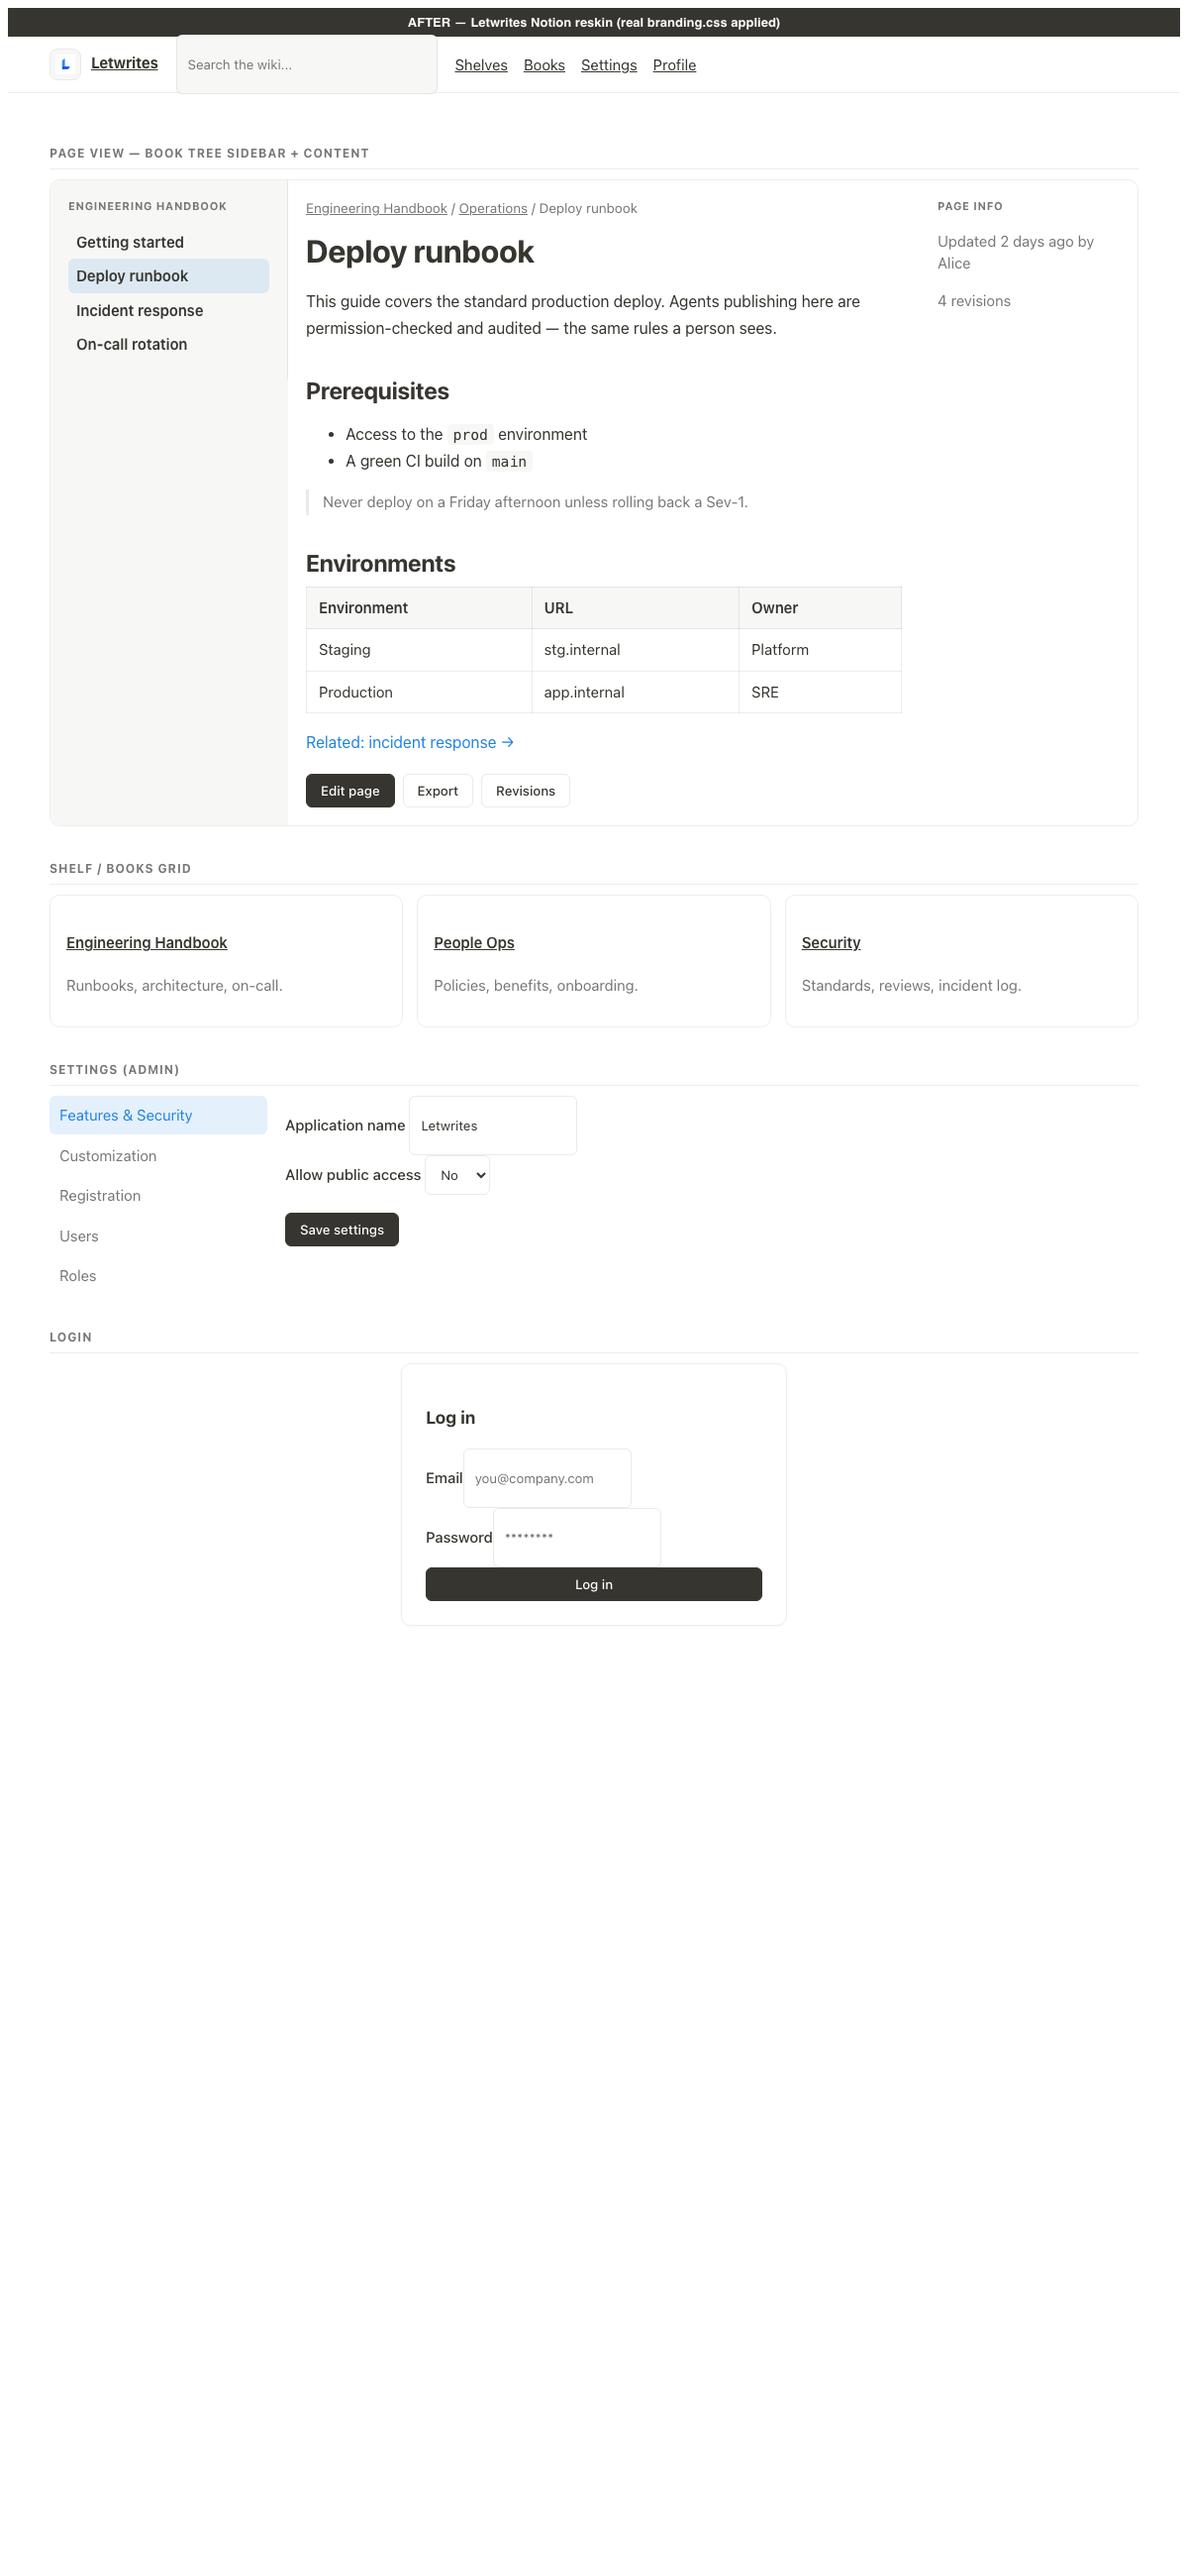
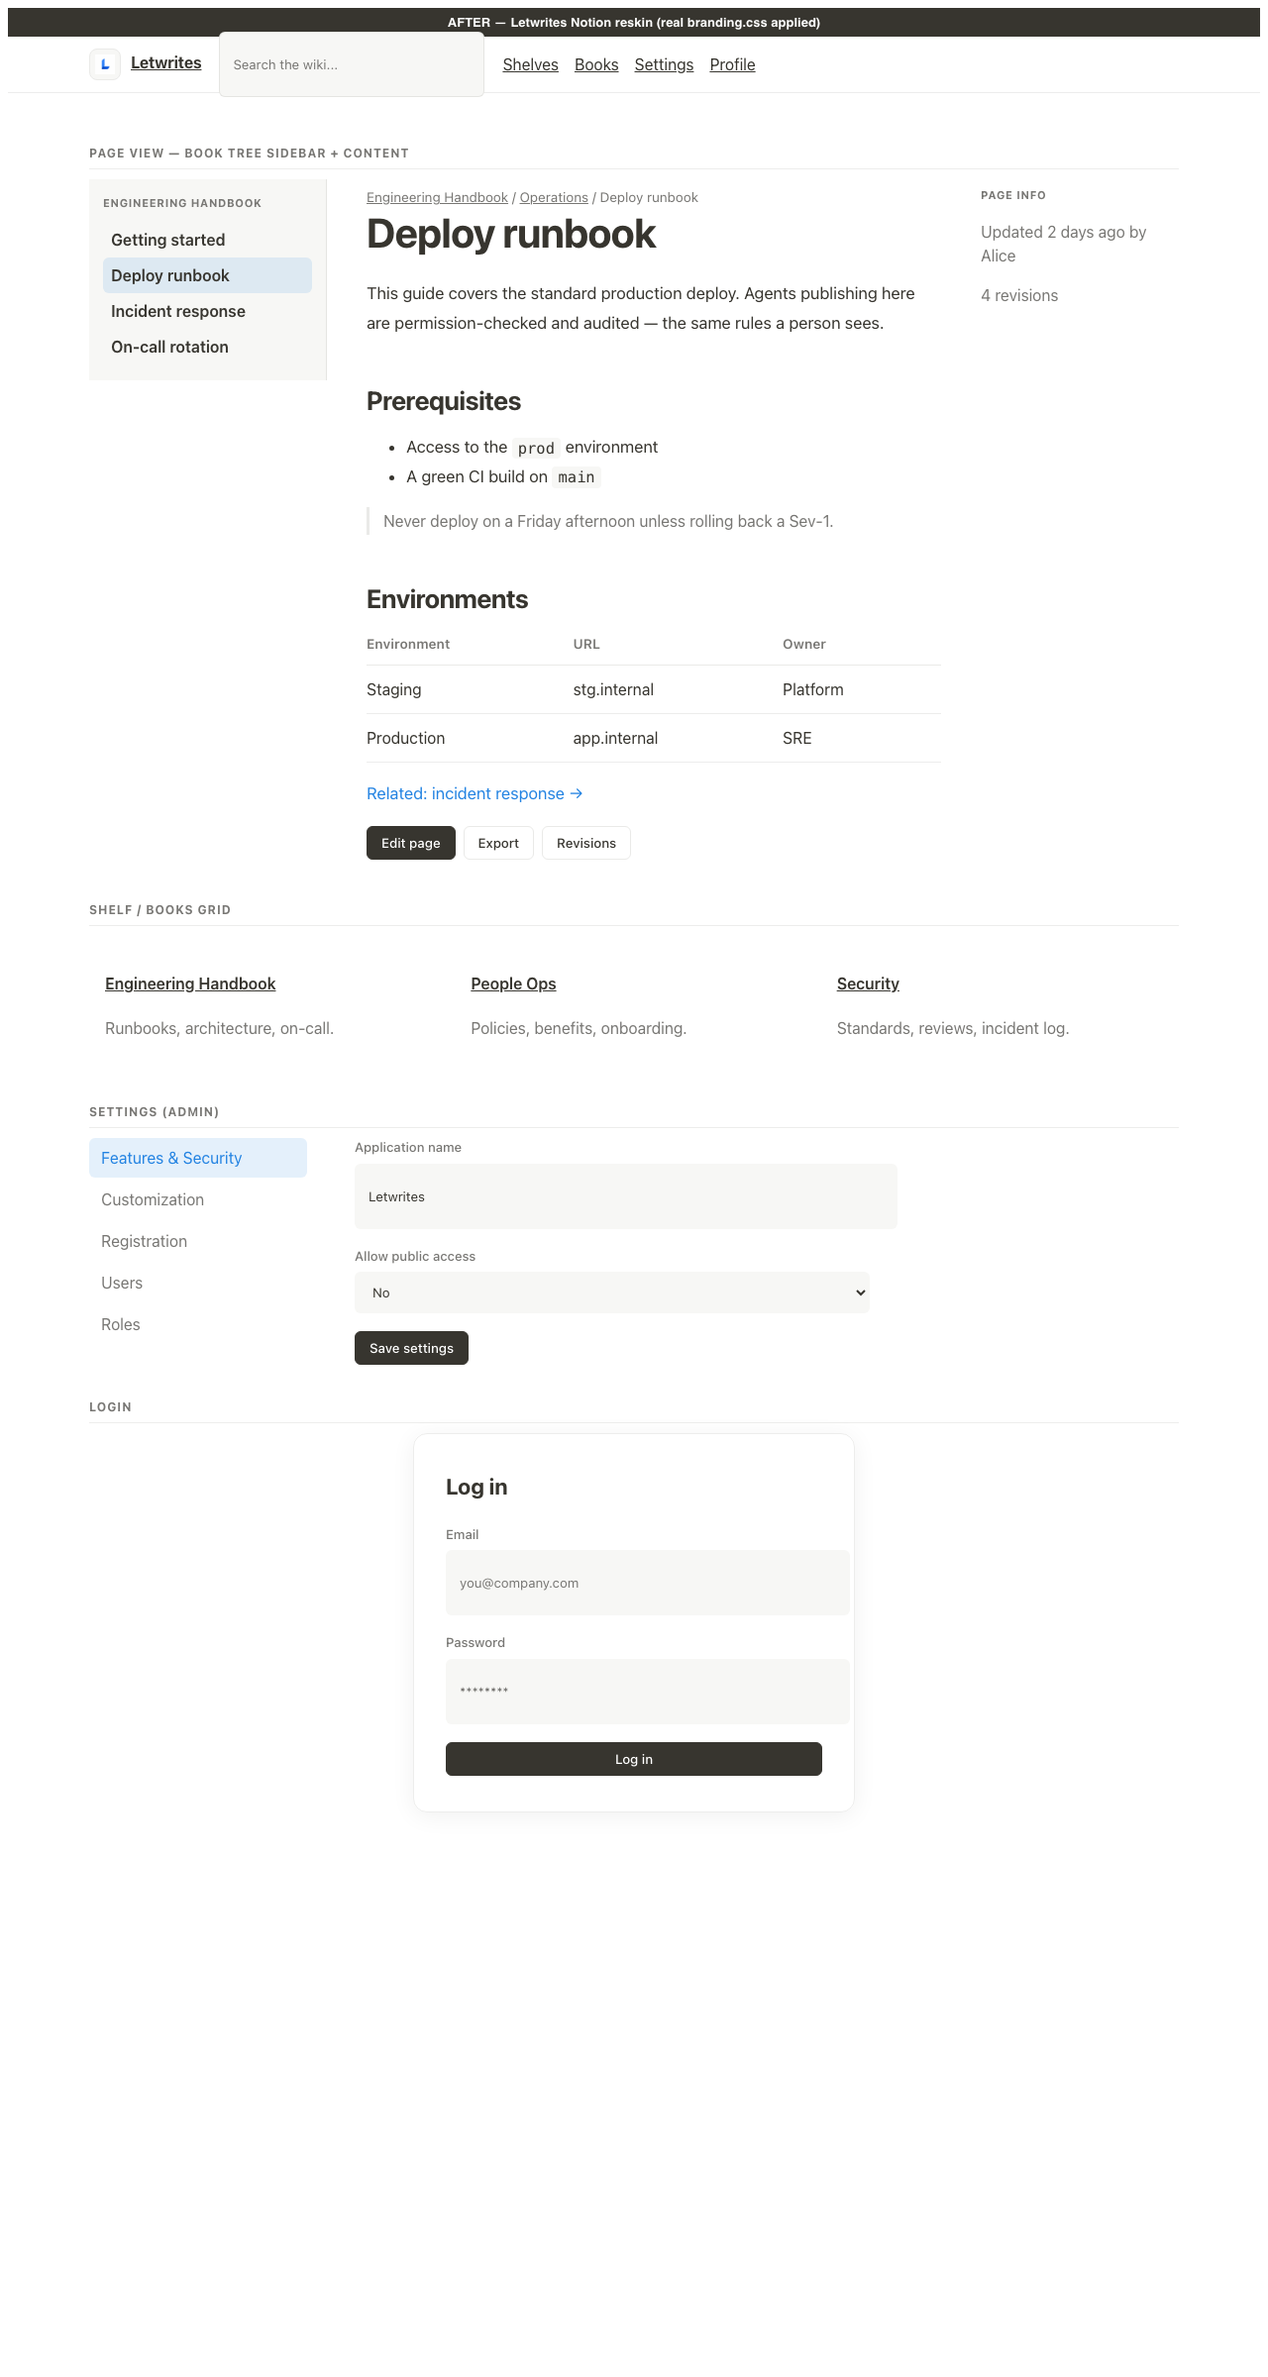
polish(theme): stronger Notion pass — borderless inputs, flat layout, airy type
Address feedback that the first pass still looked like boxy BookStack:
- inputs: borderless grey-fill (Notion style) with labels above in muted small text,
  full-width, accent ring on focus — removes the 'lots of input boxes' look
- layout: remove panel/card frames; content floats on white, sidebar is a soft grey block
- tables: drop grid lines → row hairlines only, quiet muted header
- type: bigger confident hierarchy (h1 2.6rem, 16px body, 1.75 line-height), more whitespace
- login: clean centered card with soft shadow
- also fixed the preview harness which was itself adding a panel border
Re-rendered + self-reviewed via headless Chrome (preview/screenshot-after.png). Braces balanced, 0 backslashes; PHP untouched.

diff --git a/wiki/themes/letwrites/preview/after.html b/wiki/themes/letwrites/preview/after.html
@@ -78,15 +78,16 @@ body, .page-content, input, select, textarea, button, .button, .text-button{
   font-family:'Inter',-apple-system,BlinkMacSystemFont,'Segoe UI',sans-serif !important;
   -webkit-font-smoothing:antialiased;
 }
-body{ background:var(--lw-bg); color:var(--lw-text); font-size:15px; line-height:1.5; }
-.page-content{ color:var(--lw-text); line-height:1.7; }
+body{ background:var(--lw-bg); color:var(--lw-text); font-size:16px; line-height:1.5; }
+.page-content{ color:var(--lw-text); line-height:1.75; max-width:860px; }
 .page-content h1,.page-content h2,.page-content h3,.page-content h4,.page-content h5{
-  color:var(--lw-text) !important; font-weight:700; letter-spacing:-.01em; line-height:1.3;
+  color:var(--lw-text) !important; font-weight:700; letter-spacing:-.02em; line-height:1.25;
 }
-.page-content h1{ font-size:2rem; margin:.4em 0 .3em; }
-.page-content h2{ font-size:1.5rem; margin:1.4em 0 .3em; }
-.page-content h3{ font-size:1.2rem; }
-.page-content p,.page-content li{ font-size:1rem; }
+.page-content h1{ font-size:2.6rem; margin:.2em 0 .5em; }
+.page-content h2{ font-size:1.65rem; margin:1.8em 0 .4em; }
+.page-content h3{ font-size:1.3rem; margin:1.4em 0 .3em; }
+.page-content p,.page-content li{ font-size:1.05rem; }
+.page-content > *:first-child{ margin-top:0; }
 .page-content a{ color:var(--lw-accent); text-decoration:none; }
 .page-content a:hover{ text-decoration:underline; }
 .page-content blockquote{ border-left:3px solid var(--lw-border-solid); color:var(--lw-text-muted); padding-left:14px; margin-left:0; }
@@ -133,14 +134,21 @@ header #header-search input::placeholder{ color:var(--lw-text-muted) !important;
 }
 .tri-layout-right, .tri-layout-right-contents{ color:var(--lw-text-muted); }
 
-/* ---- Cards / entity lists: flat, hairline, soft hover (no heavy shadow) ---- */
-.card, .content-wrap, .grid-card, .featured-image-container{
+/* ---- Cards / entity lists: FLAT, frameless, soft hover (Notion has no panel chrome) ---- */
+.card, .content-wrap, .featured-image-container{
   border-radius:var(--lw-radius-lg) !important;
   box-shadow:none !important;
+  border:0 !important;
+  background:transparent !important;
 }
-.card, .grid-card{ border:1px solid var(--lw-border) !important; }
-.grid-card:hover{ background:var(--lw-hover); transition:background .15s ease; }
-.entity-list-item{ border-radius:var(--lw-radius); transition:background .15s ease; }
+/* Gallery/book cards: borderless, padding + hover fill instead of a frame */
+.grid-card{
+  border:0 !important; border-radius:var(--lw-radius-lg) !important; box-shadow:none !important;
+  background:transparent !important; padding:14px 16px !important;
+  transition:background .15s ease;
+}
+.grid-card:hover{ background:var(--lw-hover) !important; }
+.entity-list-item{ border-radius:var(--lw-radius); transition:background .15s ease; padding:6px 8px; }
 .entity-list-item:hover{ background:var(--lw-hover); }
 .entity-list-item .entity-list-item-name, h4.entity-list-item-name a{ color:var(--lw-text); font-weight:600; }
 .entity-list-item p, .entity-item-snippet{ color:var(--lw-text-muted); }
@@ -167,33 +175,41 @@ header #header-search input::placeholder{ color:var(--lw-text-muted) !important;
   outline:2px solid var(--lw-accent); outline-offset:2px;
 }
 
-/* ---- Forms / inputs: hairline, soft radius, comfortable, accent focus ---- */
+/* ---- Forms / inputs: borderless grey-fill (Notion style), full-width, accent focus ---- */
 input[type=text], input[type=email], input[type=password], input[type=search], input[type=number],
 select, textarea, .input-base, .form-group input, .form-group select, .form-group textarea{
-  border:1px solid var(--lw-border-solid) !important;
+  border:1px solid transparent !important;   /* transparent so focus border doesn't shift layout */
   border-radius:var(--lw-radius) !important;
-  background:var(--lw-surface) !important;
+  background:var(--lw-sidebar) !important;    /* subtle grey fill, not a hard box */
   color:var(--lw-text) !important;
-  padding:9px 11px !important;
-  min-height:40px;
+  padding:11px 13px !important;
+  min-height:42px; width:100%;
   box-shadow:none !important;
+  transition:background .12s ease, border-color .12s ease, box-shadow .12s ease;
 }
+input::placeholder, textarea::placeholder{ color:var(--lw-text-muted) !important; }
+input:hover, select:hover, textarea:hover{ background:#f1f1ef !important; }
 input:focus, select:focus, textarea:focus, .input-base:focus{
+  background:var(--lw-surface) !important;
   border-color:var(--lw-accent) !important;
   box-shadow:0 0 0 3px var(--lw-accent-soft) !important;
   outline:none !important;
 }
-label, .form-group label{ color:var(--lw-text); font-weight:500; }
+/* Labels: small, muted, sit ABOVE the field (Notion form rhythm) */
+label, .form-group label{ color:var(--lw-text-muted); font-weight:500; font-size:.82rem; display:block; margin-bottom:6px; }
+.form-group{ margin-bottom:18px; }
 .form-group .text-muted, .text-muted, .faded{ color:var(--lw-text-muted) !important; }
 
-/* ---- Tables: minimal, row hairlines, quiet header ---- */
+/* ---- Tables: borderless, row hairlines only, quiet bold header (no grid lines) ---- */
 .page-content table, table.table, .table{ border-collapse:collapse; width:100%; }
 .page-content table th, table.table th, .table th{
-  background:var(--lw-sidebar); color:var(--lw-text); font-weight:600; text-align:left;
-  border:1px solid var(--lw-border) !important; padding:8px 12px;
+  background:transparent; color:var(--lw-text-muted); font-weight:600; text-align:left;
+  border:0 !important; border-bottom:1px solid var(--lw-border-solid) !important;
+  padding:8px 14px 8px 0; font-size:.85rem; letter-spacing:.01em;
 }
 .page-content table td, table.table td, .table td{
-  border:1px solid var(--lw-border) !important; padding:8px 12px; color:var(--lw-text);
+  border:0 !important; border-bottom:1px solid var(--lw-border) !important;
+  padding:10px 14px 10px 0; color:var(--lw-text);
 }
 table.table tr:hover td{ background:var(--lw-hover); }
 
@@ -246,7 +262,7 @@ body.dark-mode .button.primary:hover, body.dark-mode button.button.primary:hover
   *{ transition:none !important; }
 }
 
-.pagewrap{max-width:1100px;margin:0 auto;padding:18px 16px 60px}.demo-label{font-size:12px;text-transform:uppercase;letter-spacing:.08em;color:var(--lw-text-muted);margin:34px 0 10px;border-bottom:1px solid var(--lw-border);padding-bottom:6px}.header-inner{display:flex;align-items:center;gap:18px;max-width:1100px;margin:0 auto;padding:0 16px;height:56px}#header-search input{width:240px}.header-links .links{display:flex;gap:16px;margin-left:auto}.tri-layout-container{display:grid;grid-template-columns:240px 1fr 220px;gap:0;border:1px solid var(--lw-border);border-radius:var(--lw-radius-lg);overflow:hidden}.tri-layout-left-contents,.tri-layout-middle-contents,.tri-layout-right-contents{padding:18px}.sidebar-page-list{list-style:none;margin:0;padding:0}.entity-list-item{padding:6px 8px;cursor:pointer}.grid{display:grid;grid-template-columns:repeat(3,1fr);gap:14px;margin-top:4px}.grid-card{padding:16px}.settings-container{display:grid;grid-template-columns:220px 1fr;gap:18px}.setting-nav{display:flex;flex-direction:column;gap:2px}.setting-nav a{padding:8px 10px;text-decoration:none}.login-wrap{display:flex;justify-content:center;margin-top:8px}.card.login-form{padding:24px;width:340px}.actions{margin-top:18px;display:flex;gap:8px}h5{font-size:11px;letter-spacing:.06em;color:var(--lw-text-muted);margin:0 0 10px}</style></head>
+.pagewrap{max-width:1100px;margin:0 auto;padding:18px 16px 60px}.demo-label{font-size:12px;text-transform:uppercase;letter-spacing:.08em;color:var(--lw-text-muted);margin:34px 0 10px;border-bottom:1px solid var(--lw-border);padding-bottom:6px}.header-inner{display:flex;align-items:center;gap:18px;max-width:1100px;margin:0 auto;padding:0 16px;height:56px}#header-search input{width:240px}.header-links .links{display:flex;gap:16px;margin-left:auto}.tri-layout-container{display:grid;grid-template-columns:240px 1fr 200px;gap:40px;align-items:start}.tri-layout-left{background:var(--lw-sidebar);border-radius:var(--lw-radius-lg)}.tri-layout-left-contents{padding:16px 14px}.tri-layout-middle-contents{padding:8px 0}.tri-layout-right-contents{padding:8px 0}.sidebar-page-list{list-style:none;margin:0;padding:0}.entity-list-item{padding:6px 8px;cursor:pointer}.grid{display:grid;grid-template-columns:repeat(3,1fr);gap:8px;margin-top:4px}.settings-container{display:grid;grid-template-columns:220px 1fr;gap:48px;max-width:980px}.setting-nav{display:flex;flex-direction:column;gap:2px}.setting-nav a{padding:8px 12px;text-decoration:none}.setting-list{max-width:520px}.login-wrap{display:flex;justify-content:center;margin-top:8px}.card.login-form{padding:36px 32px;width:380px;border:1px solid var(--lw-border) !important;border-radius:14px !important;box-shadow:0 4px 24px rgba(15,15,15,.06) !important}.card.login-form h3{font-size:1.4rem;margin:0 0 22px}.actions{margin-top:18px;display:flex;gap:8px}h5{font-size:11px;letter-spacing:.06em;color:var(--lw-text-muted);margin:0 0 10px}</style></head>
 <body><div style="background:#37352f;color:#fff;font:600 13px/1 Inter,sans-serif;padding:8px 14px;text-align:center">AFTER — Letwrites Notion reskin (real branding.css applied)</div>
 <header id="header">
   <div class="header-inner">

diff --git a/wiki/themes/letwrites/branding.css b/wiki/themes/letwrites/branding.css
@@ -96,15 +96,16 @@ body, .page-content, input, select, textarea, button, .button, .text-button{
   font-family:'Inter',-apple-system,BlinkMacSystemFont,'Segoe UI',sans-serif !important;
   -webkit-font-smoothing:antialiased;
 }
-body{ background:var(--lw-bg); color:var(--lw-text); font-size:15px; line-height:1.5; }
-.page-content{ color:var(--lw-text); line-height:1.7; }
+body{ background:var(--lw-bg); color:var(--lw-text); font-size:16px; line-height:1.5; }
+.page-content{ color:var(--lw-text); line-height:1.75; max-width:860px; }
 .page-content h1,.page-content h2,.page-content h3,.page-content h4,.page-content h5{
-  color:var(--lw-text) !important; font-weight:700; letter-spacing:-.01em; line-height:1.3;
+  color:var(--lw-text) !important; font-weight:700; letter-spacing:-.02em; line-height:1.25;
 }
-.page-content h1{ font-size:2rem; margin:.4em 0 .3em; }
-.page-content h2{ font-size:1.5rem; margin:1.4em 0 .3em; }
-.page-content h3{ font-size:1.2rem; }
-.page-content p,.page-content li{ font-size:1rem; }
+.page-content h1{ font-size:2.6rem; margin:.2em 0 .5em; }
+.page-content h2{ font-size:1.65rem; margin:1.8em 0 .4em; }
+.page-content h3{ font-size:1.3rem; margin:1.4em 0 .3em; }
+.page-content p,.page-content li{ font-size:1.05rem; }
+.page-content > *:first-child{ margin-top:0; }
 .page-content a{ color:var(--lw-accent); text-decoration:none; }
 .page-content a:hover{ text-decoration:underline; }
 .page-content blockquote{ border-left:3px solid var(--lw-border-solid); color:var(--lw-text-muted); padding-left:14px; margin-left:0; }
@@ -151,14 +152,21 @@ header #header-search input::placeholder{ color:var(--lw-text-muted) !important;
 }
 .tri-layout-right, .tri-layout-right-contents{ color:var(--lw-text-muted); }
 
-/* ---- Cards / entity lists: flat, hairline, soft hover (no heavy shadow) ---- */
-.card, .content-wrap, .grid-card, .featured-image-container{
+/* ---- Cards / entity lists: FLAT, frameless, soft hover (Notion has no panel chrome) ---- */
+.card, .content-wrap, .featured-image-container{
   border-radius:var(--lw-radius-lg) !important;
   box-shadow:none !important;
+  border:0 !important;
+  background:transparent !important;
 }
-.card, .grid-card{ border:1px solid var(--lw-border) !important; }
-.grid-card:hover{ background:var(--lw-hover); transition:background .15s ease; }
-.entity-list-item{ border-radius:var(--lw-radius); transition:background .15s ease; }
+/* Gallery/book cards: borderless, padding + hover fill instead of a frame */
+.grid-card{
+  border:0 !important; border-radius:var(--lw-radius-lg) !important; box-shadow:none !important;
+  background:transparent !important; padding:14px 16px !important;
+  transition:background .15s ease;
+}
+.grid-card:hover{ background:var(--lw-hover) !important; }
+.entity-list-item{ border-radius:var(--lw-radius); transition:background .15s ease; padding:6px 8px; }
 .entity-list-item:hover{ background:var(--lw-hover); }
 .entity-list-item .entity-list-item-name, h4.entity-list-item-name a{ color:var(--lw-text); font-weight:600; }
 .entity-list-item p, .entity-item-snippet{ color:var(--lw-text-muted); }
@@ -185,33 +193,41 @@ header #header-search input::placeholder{ color:var(--lw-text-muted) !important;
   outline:2px solid var(--lw-accent); outline-offset:2px;
 }
 
-/* ---- Forms / inputs: hairline, soft radius, comfortable, accent focus ---- */
+/* ---- Forms / inputs: borderless grey-fill (Notion style), full-width, accent focus ---- */
 input[type=text], input[type=email], input[type=password], input[type=search], input[type=number],
 select, textarea, .input-base, .form-group input, .form-group select, .form-group textarea{
-  border:1px solid var(--lw-border-solid) !important;
+  border:1px solid transparent !important;   /* transparent so focus border doesn't shift layout */
   border-radius:var(--lw-radius) !important;
-  background:var(--lw-surface) !important;
+  background:var(--lw-sidebar) !important;    /* subtle grey fill, not a hard box */
   color:var(--lw-text) !important;
-  padding:9px 11px !important;
-  min-height:40px;
+  padding:11px 13px !important;
+  min-height:42px; width:100%;
   box-shadow:none !important;
+  transition:background .12s ease, border-color .12s ease, box-shadow .12s ease;
 }
+input::placeholder, textarea::placeholder{ color:var(--lw-text-muted) !important; }
+input:hover, select:hover, textarea:hover{ background:#f1f1ef !important; }
 input:focus, select:focus, textarea:focus, .input-base:focus{
+  background:var(--lw-surface) !important;
   border-color:var(--lw-accent) !important;
   box-shadow:0 0 0 3px var(--lw-accent-soft) !important;
   outline:none !important;
 }
-label, .form-group label{ color:var(--lw-text); font-weight:500; }
+/* Labels: small, muted, sit ABOVE the field (Notion form rhythm) */
+label, .form-group label{ color:var(--lw-text-muted); font-weight:500; font-size:.82rem; display:block; margin-bottom:6px; }
+.form-group{ margin-bottom:18px; }
 .form-group .text-muted, .text-muted, .faded{ color:var(--lw-text-muted) !important; }
 
-/* ---- Tables: minimal, row hairlines, quiet header ---- */
+/* ---- Tables: borderless, row hairlines only, quiet bold header (no grid lines) ---- */
 .page-content table, table.table, .table{ border-collapse:collapse; width:100%; }
 .page-content table th, table.table th, .table th{
-  background:var(--lw-sidebar); color:var(--lw-text); font-weight:600; text-align:left;
-  border:1px solid var(--lw-border) !important; padding:8px 12px;
+  background:transparent; color:var(--lw-text-muted); font-weight:600; text-align:left;
+  border:0 !important; border-bottom:1px solid var(--lw-border-solid) !important;
+  padding:8px 14px 8px 0; font-size:.85rem; letter-spacing:.01em;
 }
 .page-content table td, table.table td, .table td{
-  border:1px solid var(--lw-border) !important; padding:8px 12px; color:var(--lw-text);
+  border:0 !important; border-bottom:1px solid var(--lw-border) !important;
+  padding:10px 14px 10px 0; color:var(--lw-text);
 }
 table.table tr:hover td{ background:var(--lw-hover); }
 
